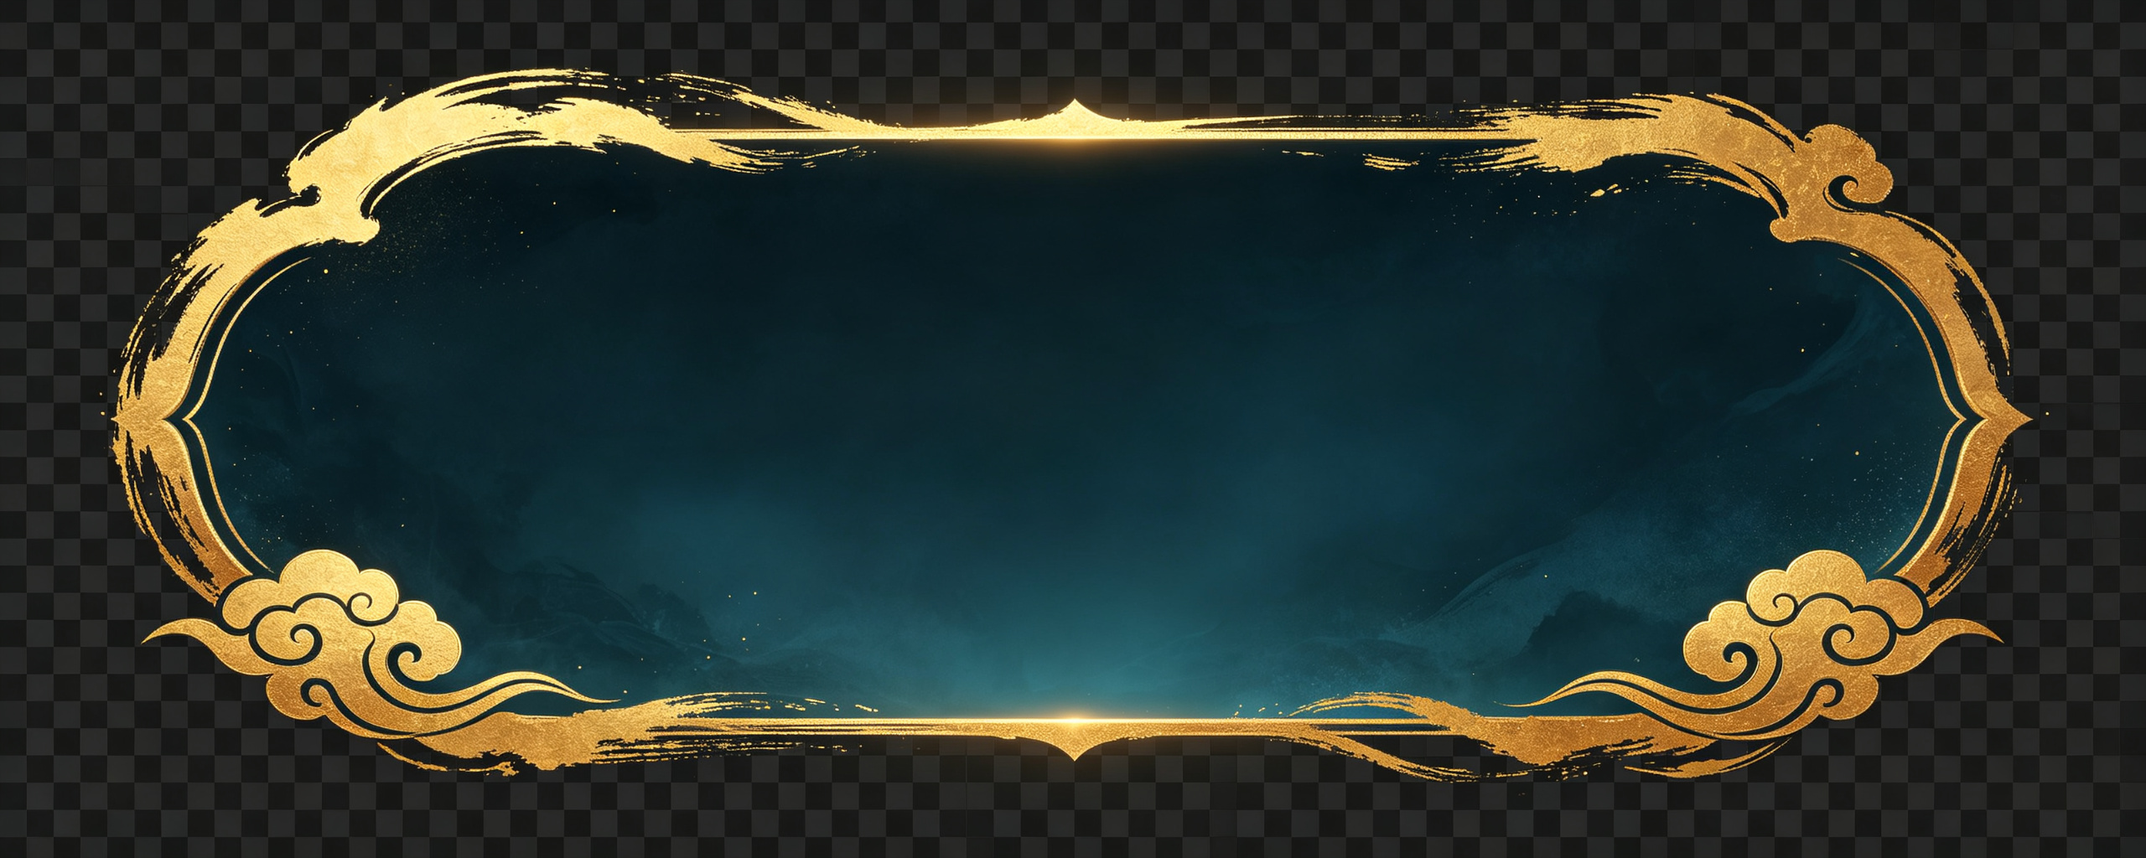
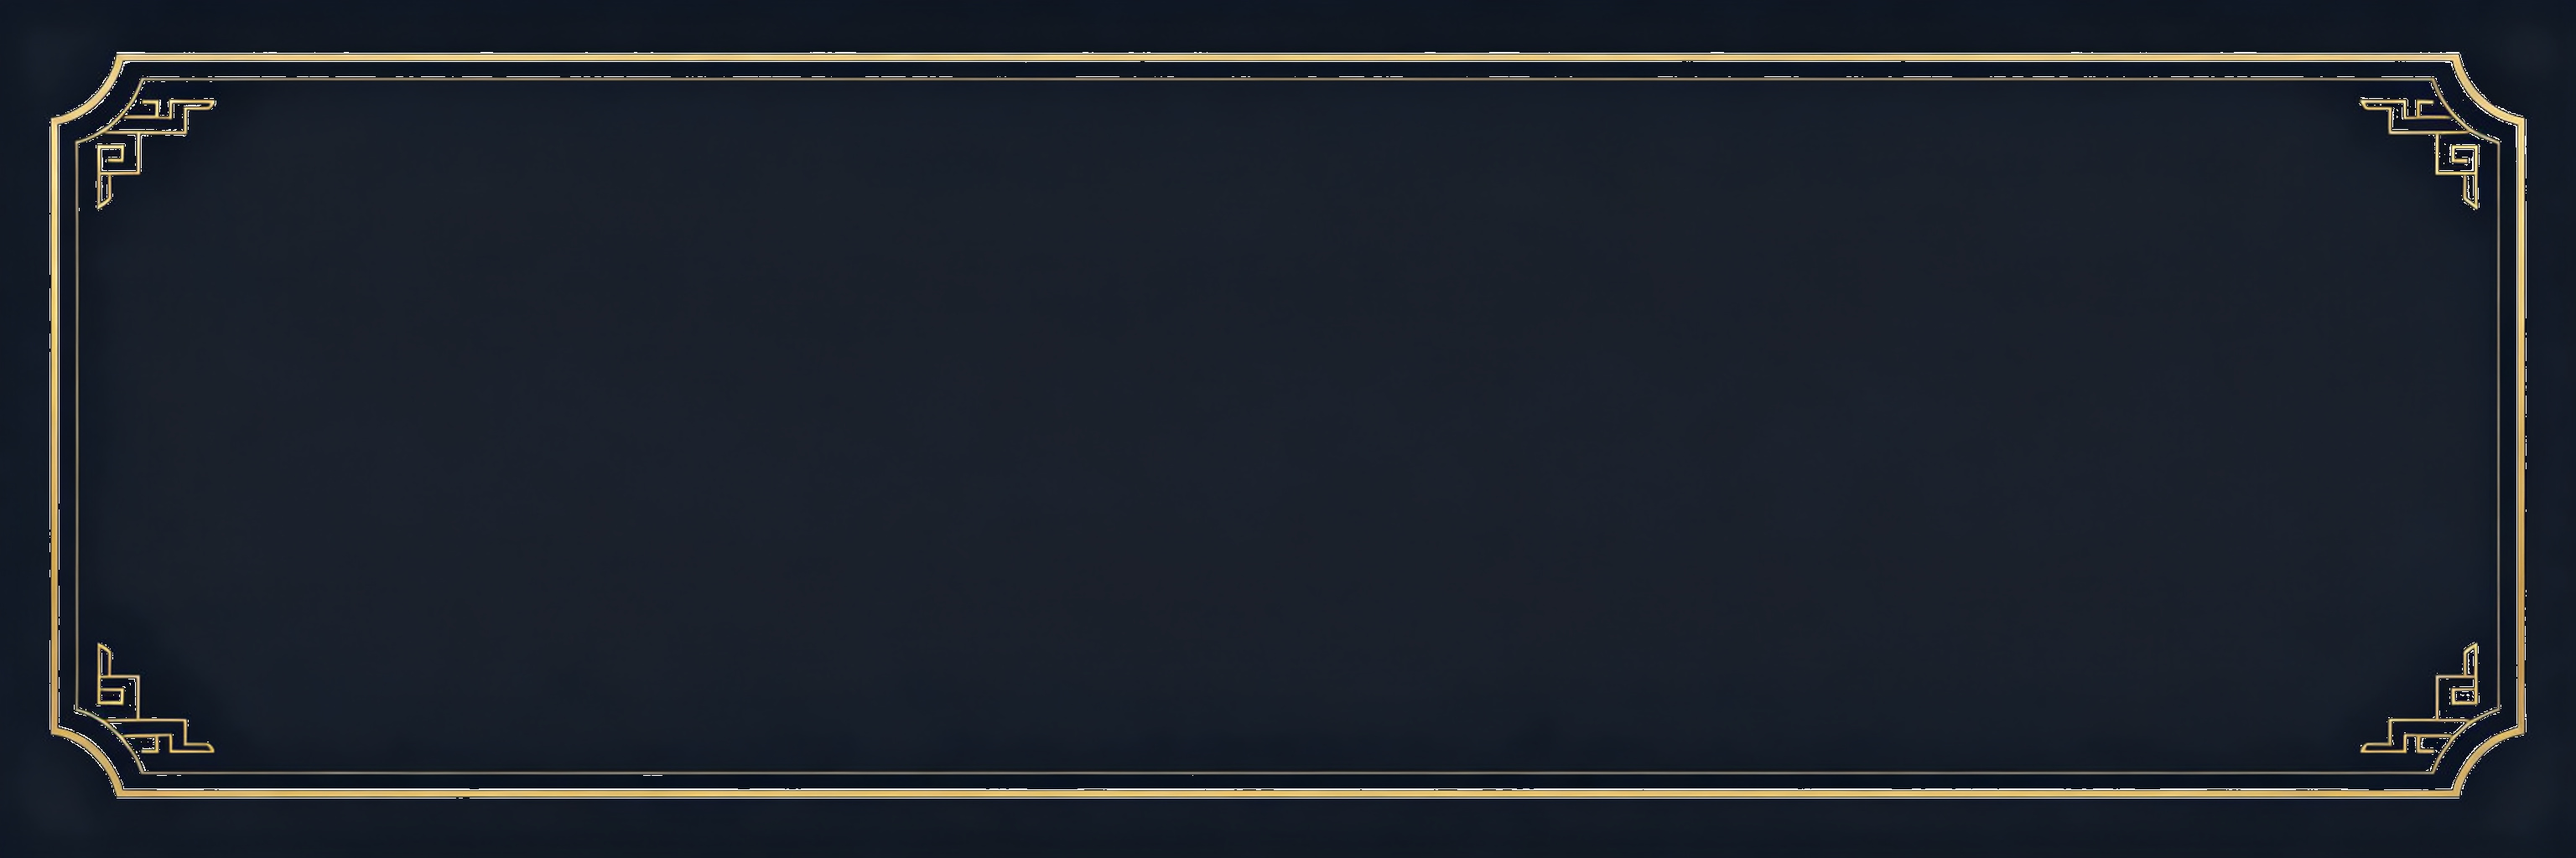
feat(v7.3): 新矩形金边背景+境界一行横排排版
1. 换矩形金边四角花新图(纯黑底已抠透明)
2. 大境界+小境界一行横排, 小境界字小(9px)跟在大境界后
3. 战斗力独占一行(金色小字)
版本 5.12 → 5.13

diff --git a/dt-theme.css b/dt-theme.css
@@ -1336,15 +1336,17 @@
   background-size:100% 100% !important;background-repeat:no-repeat !important;
   box-shadow:none !important;
   filter:drop-shadow(0 5px 14px rgba(0,0,0,.5));
-  width:158px !important;max-width:100% !important;min-width:0 !important;
+  width:200px !important;max-width:100% !important;min-width:0 !important;
   box-sizing:border-box !important;
-  padding:8px 13px 9px !important;
-  display:flex !important;flex-direction:column !important;
-  align-items:center !important;justify-content:center !important;
-  gap:1px !important;text-align:center !important}
+  padding:6px 14px 6px !important;
+  display:flex !important;flex-direction:row !important;flex-wrap:wrap !important;
+  align-items:baseline !important;justify-content:center !important;
+  gap:4px !important;text-align:center !important}
 /* v7.2: 战斗力显示 */
-.realm-badge .rb-power{font-size:10px;color:#f0c98a;letter-spacing:1px;font-weight:600;line-height:1.3}
+.realm-badge .rb-power{font-size:9px;color:#f0c98a;letter-spacing:1px;font-weight:600;line-height:1.3;flex-basis:100%}
 .realm-badge .rb-power::before{content:"战力 ";color:#8b94a8;font-weight:400}
+.realm-badge .sub-a{font-size:9px !important;color:#b9c3d8 !important;letter-spacing:0 !important;font-weight:400 !important}
+.realm-badge .sub-b{display:none !important}
 /* 「闲人」朱印复位(左下, 与右中"榜"印呼应) */
 .realm-badge::after{display:block !important;content:"闲人";left:7px !important;right:auto !important;
   bottom:5px !important;top:auto !important;

diff --git a/index.html b/index.html
@@ -3,7 +3,7 @@
 <head>
 <meta charset="utf-8">
 <meta name="viewport" content="width=device-width, initial-scale=1, maximum-scale=1, user-scalable=no">
-<script>window.APP_VER="5.12";</script>
+<script>window.APP_VER="5.13";</script>
 <title>闲人修仙</title>
 <meta name="description" content="闲人修仙：主身巡猎斗法、分身云游寻宝，离线亦在成长。">
 <link rel="icon" href="data:,">
@@ -546,7 +546,7 @@
     box-shadow:0 2px 10px rgba(0,0,0,.55);cursor:grab;touch-action:none}
   .dim-knob svg{width:20px;height:20px;display:block}
 </style>
-<link rel="stylesheet" href="dt-theme.css?v=5.12">
+<link rel="stylesheet" href="dt-theme.css?v=5.13">
 </head>
 <body>
 <!-- v1.7.58 开屏页: 品牌 + 进度 + 健康游戏忠告(load 完成或点击后淡出) -->
